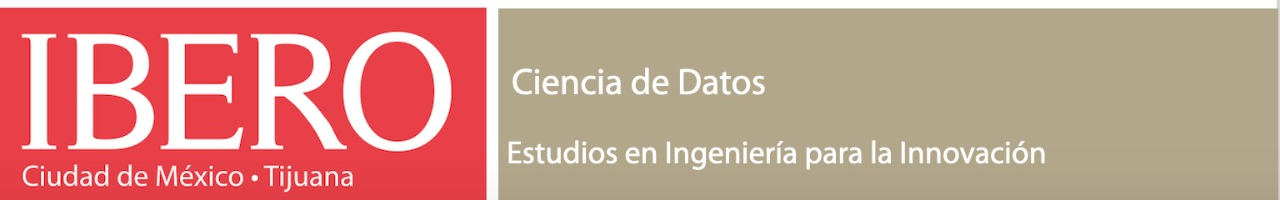
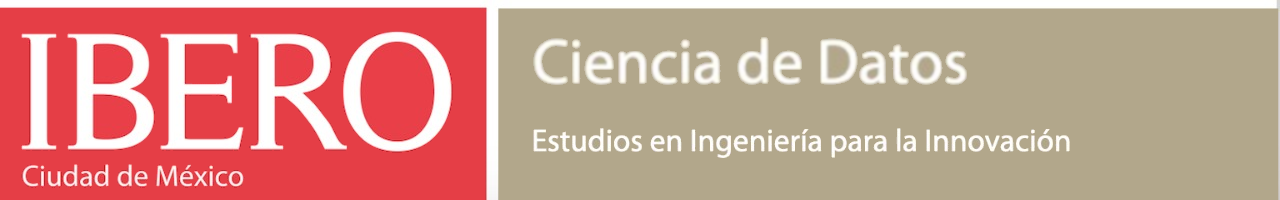
Publish 79f72aa.

Changed region(s): [[0.375, 0.18, 0.7812, 0.48], [0.375, 0.63, 0.8438, 0.84], [0.1875, 0.81, 0.2812, 0.96]]

diff --git a/csaw/index.html b/csaw/index.html
@@ -1,14 +1,14 @@
-<!doctype html><html lang=es-mx><head><meta charset=utf-8><title>Joshua Haase</title><link rel=stylesheet media=screen href=https://joshua.haase.mx/css/theme.min.f389c1e954dd1635b1f1e79d7beef9fe952e3e940a3f49366c30e74b5df7edf9.css integrity="sha256-84nB6VTdFjWx8eede+75/pUuPpQKP0k2bDDnS1337fk="></head><body><h1 id=pequeño-taller-del-hacker-ético>Pequeño Taller del Hacker Ético</h1><p>Si eres estudiante de preparatoria o licenciatura
+<!doctype html><html lang=es-mx><head><meta charset=utf-8><title>Joshua Haase</title><link rel=stylesheet media=screen href=https://joshua.haase.mx/css/theme.min.f389c1e954dd1635b1f1e79d7beef9fe952e3e940a3f49366c30e74b5df7edf9.css integrity="sha256-84nB6VTdFjWx8eede+75/pUuPpQKP0k2bDDnS1337fk="></head><body><img src=https://joshua.haase.mx/images/ibero-gcd.png style=width:100%><h1 id=pequeño-taller-del-hacker-ético>Pequeño Taller del Hacker Ético</h1><p>Si eres estudiante de preparatoria o licenciatura
 y quieres saber qué se necesita para
 ser hacker como en las películas,
 o trabajar en ciberseguridad;
 el Grupo de Ciencia de Datos de la Universidad Iberoamericana
-<a href=https://forms.gle/5JxdDdYC7xbmVCER8 title="Formulario de inscripción al «Pequeño Taller Hacker».">te invita al «Pequeño Taller del Hacker Ético»</a>.</p><p>Entrenaremos para el concurso de ciberseguridad <strong>CSAW'21</strong>
+<a href=https://forms.gle/5JxdDdYC7xbmVCER8 title="Cuestionario de selección al «Cybersecurity Training».">te invita al «Cybersecurity Training»</a>.</p><p>Entrenaremos para el concurso de ciberseguridad <strong>CSAW'21</strong>
 y si ganas las eliminatorias
 podrías probar tus habilidades contra los mejores del mundo
-en la sede virtual de la Universidad de Nueva York.</p><h2 id=cuánto-cuesta>¿Cuánto cuesta?</h2><p>El «Pequeño Taller del Hacker Ético»
+en la sede virtual de la Universidad de Nueva York.</p><h2 id=cuánto-cuesta>¿Cuánto cuesta?</h2><p>El «Cybersecurity Training»
 <strong>se paga con el compromiso de aprender, concursar y usar tus nuevos poderes para el bien</strong>.</p><h2 id=cuándo-empieza>¿Cuándo empieza?</h2><p>Tenemos sesión todas las semanas,
 lunes y jueves de 16:00 a 17:30.</p><p>Puedes empezar <strong>cuando quieras si te comprometes</strong> a aprender, concursar y hacer el bien.</p><h2 id=cuánto-dura>¿Cuánto dura?</h2><p>Tendremos 2 sesiones semanales,
 hasta comenzar las eliminatorias del concurso (septiembre 2021).</p><h2 id=qué-va-a-pasar-en-exámenes-y-vacaciones>¿Qué va a pasar en exámenes y vacaciones?</h2><p>Sabemos que en temporada de exámenes quizá estés presionado,
 te enviaremos un recordatorio pero <strong>está bien si te enfocas en tus exámenes</strong>.</p><p>En <strong>vacaciones</strong> también tenemos sesiones
-(nos pondremos de acuerdo cuándo y cuántas).</p><h2 id=qué-tengo-que-hacer>¿Qué tengo que hacer?</h2><ul><li><p><a href=https://forms.gle/5JxdDdYC7xbmVCER8 title="Formulario de inscripción al «Pequeño Taller Hacker».">Llenar el formulario de inscripción</a>.</p></li><li><p>Participar el taller cada semana.</p></li><li><p>Concursar.</p></li><li><p>Usar tus nuevos poderes para el bien.</p></li></ul></body></html>
+(nos pondremos de acuerdo cuándo y cuántas).</p><h2 id=qué-tengo-que-hacer>¿Qué tengo que hacer?</h2><ul><li><p><a href=https://forms.gle/5JxdDdYC7xbmVCER8 title="Cuestionario de selección al «Cybersecurity Training».">Llenar el formulario de inscripción</a>.</p></li><li><p>Participar el taller cada semana.</p></li><li><p>Concursar.</p></li><li><p>Usar tus nuevos poderes para el bien.</p></li></ul></body></html>
